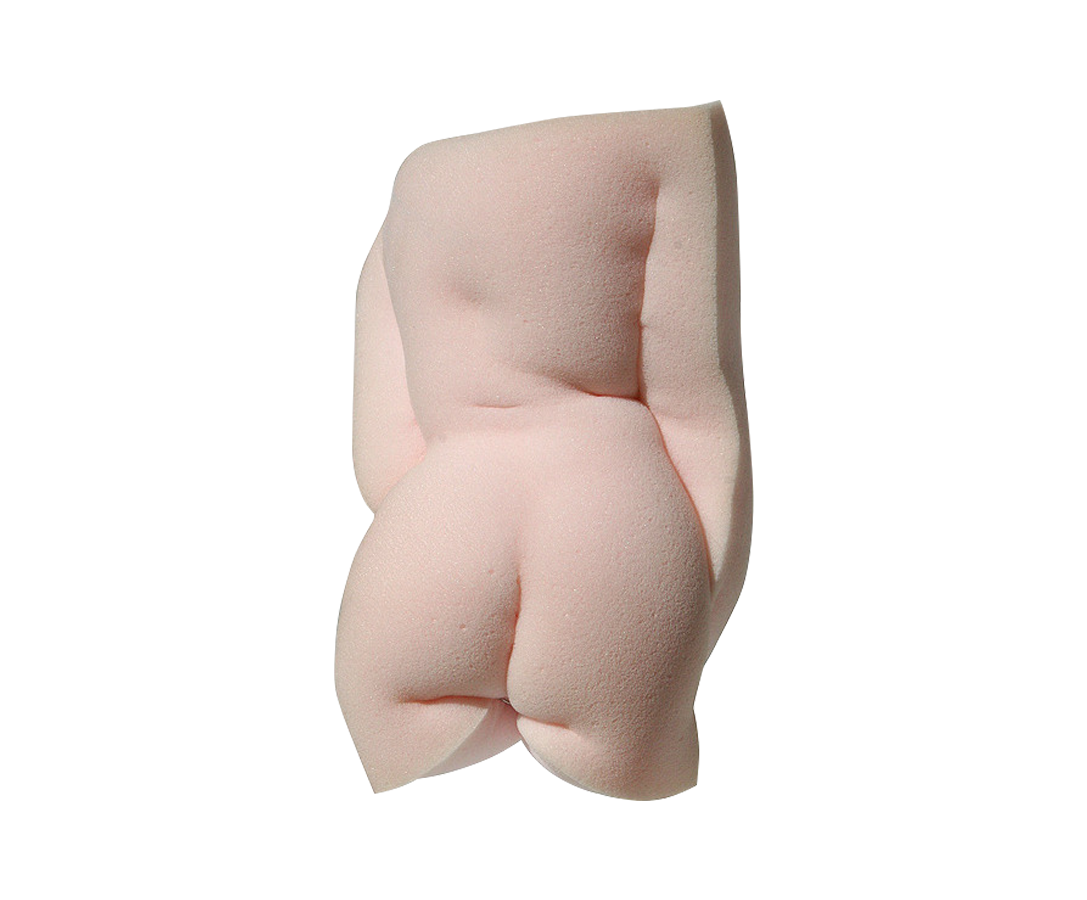
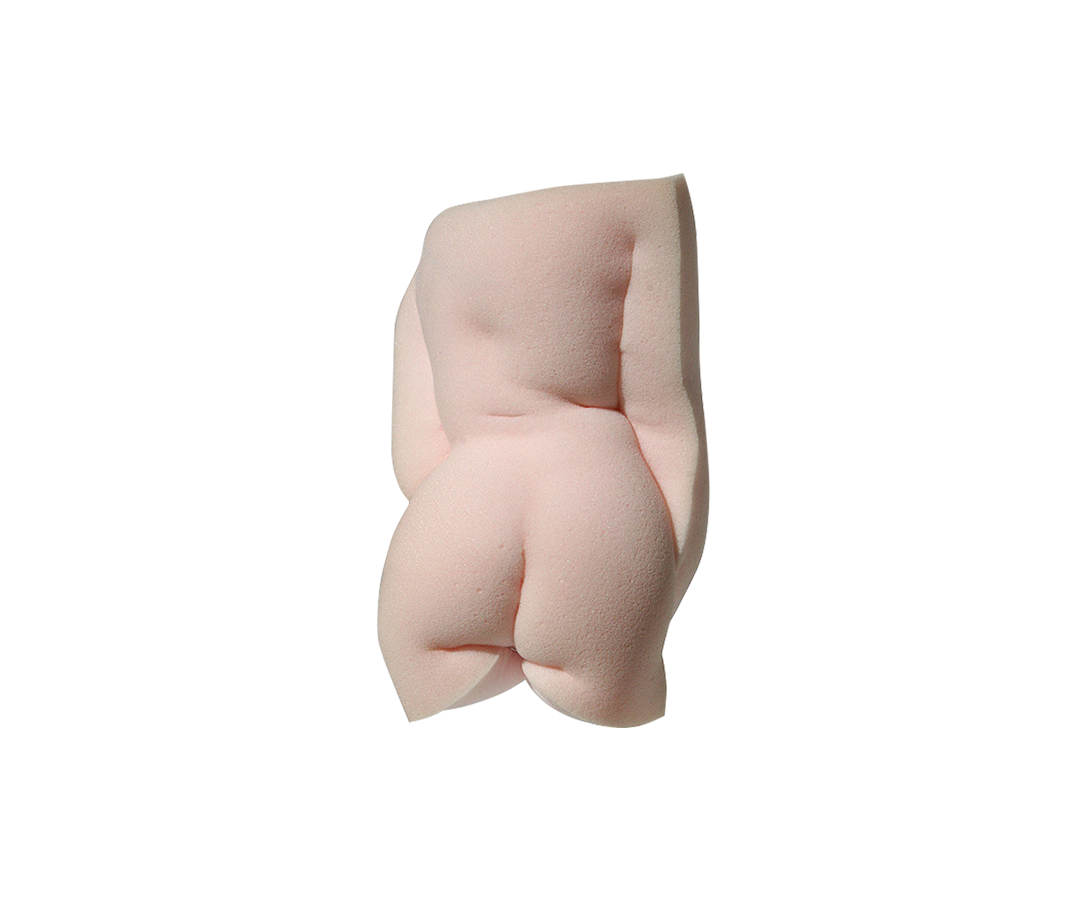
change image size

Changed region(s): [[0.3036, 0.0933, 0.6983, 0.9022], [0.425, 0.3111, 0.4554, 0.3733]]

diff --git a/index.html b/index.html
@@ -81,7 +81,7 @@
 <div class=\"item\" value=\"wfh-rubbergloves\"><p class=\"title\">Multi-Purpose Heavy Duty Rubber Gloves多用途重型橡胶手套</p><p>Every day, we are exposed to germs, bacteria, viruses, mold, solvents, chemicals or cancer-causing agents that can enter the body through our hands and skin. These hazards live on the surface of hands and can be transmitted through touch. Disposable gloves are effective in minimizing transfer risks and protecting public health. 12 pairs/pack Medium/Large/X-Large. <strong>$12.25</strong></p></div> \
 <div class=\"item\" value=\"wfh-mycrowave\"><p class=\"title\">My-crowave我波炉</p><p>Better than any paper shredder, My-crowave can help you discard any confidential files while it heats up takeout from your favorite restaurants. <strong>$99.95</strong></p></div> \
 <div class=\"item\" value=\"wfh-hairspray\"><p class=\"title\">Ocean Mist Hairspray海洋喷雾发胶</p><p>Ocean Mist Hairspray is formulated with the same salinity as the Pacific Ocean to add beachy texture to the hair, and naturally cleanse and detox the skin. Bringing new life and beachy volume to flat and uninspired locks, this product gives you a soothing mood with an exotic aroma wherever you work. <strong>$12.50</strong></p></div> \
-<div class=\"item\" value=\"wfh-ip-camera\"><p class=\"title\">HDTV Day/night Network Security camera高清网络安全摄像头</p><p>The camera adjusts zoom and focus during remote setup, resulting in easy and quick installation. It delivers enhanced Lightfinder technology, optimizing video for forensic purposes in scenes with complex lighting for a more secure home. <strong>$349.0</strong>0</p></div> \
+<div class=\"item\" value=\"wfh-ip-camera\"><p class=\"title\">HDTV Day/night Network Security camera高清网络安全摄像头</p><p>The camera adjusts zoom and focus during remote setup, resulting in easy and quick installation. It delivers enhanced Lightfinder technology, optimizing video for forensic purposes in scenes with complex lighting for a more secure home. <strong>$349.00</strong></p></div> \
 <div class=\"item\" value=\"wfh-pet\"><p class=\"title\">PET不是宠物是个人电子交易平台</p><p>Totally refurbished, all original chips, completely disassembled and cleaned. The case has been professionally powder coated not painted as they were out of the factory. This unit looks as good as the day it was made. A lot of painstaking hours has been spent on restoring this to mint condition. Purchase through eBay. <strong>$890.0</strong>0</p></div> \
 <div class=\"item\" value=\"wfh-screenvalve\"><p class=\"title\">Screen Valve屏幕阀门</p><p>Controlling the passage of water through a pipe, this smart device turns any surface into a pixel display. Simply release water from your kitchen sink and spray on, allow to dry in 5 min, power up and cast any HDMI signal onto your surface. <strong>$89.30</strong></p></div> \
 <div class=\"item\" value=\"wfh-storage\"><p class=\"title\">Storage & Organization储藏和整理</p><p>A reusable storage container that's perfect for use in order picking, closed-loop distribution and storage applications. 6/pack <strong>$60.00</strong></p></div> \
